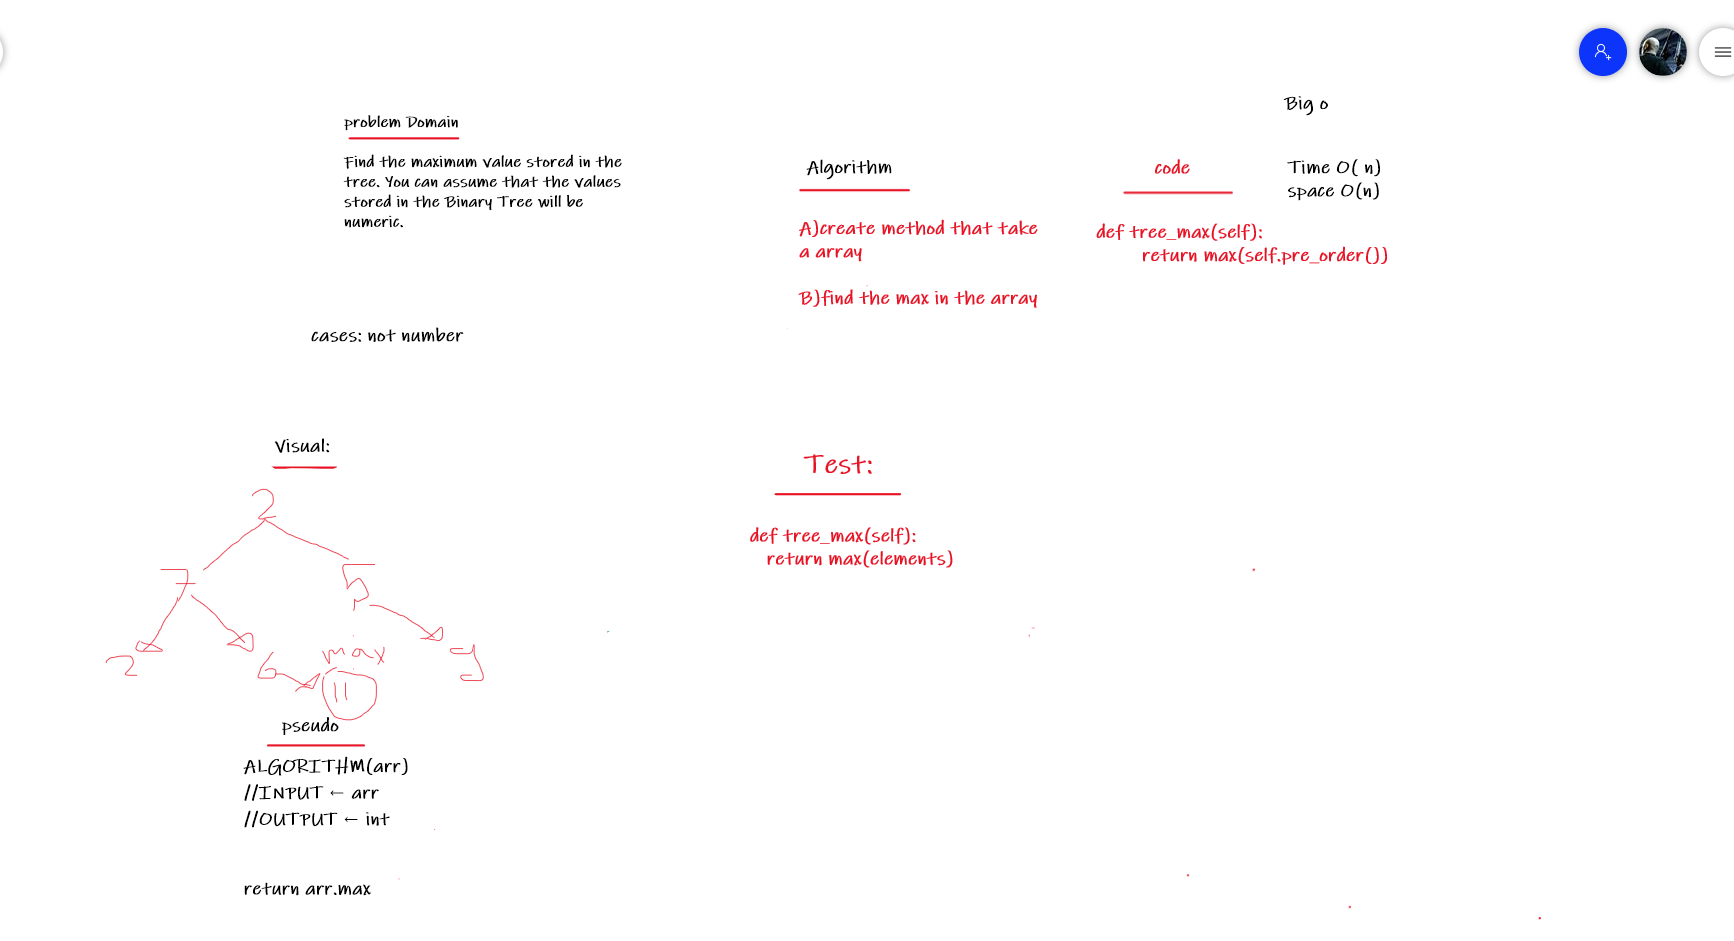
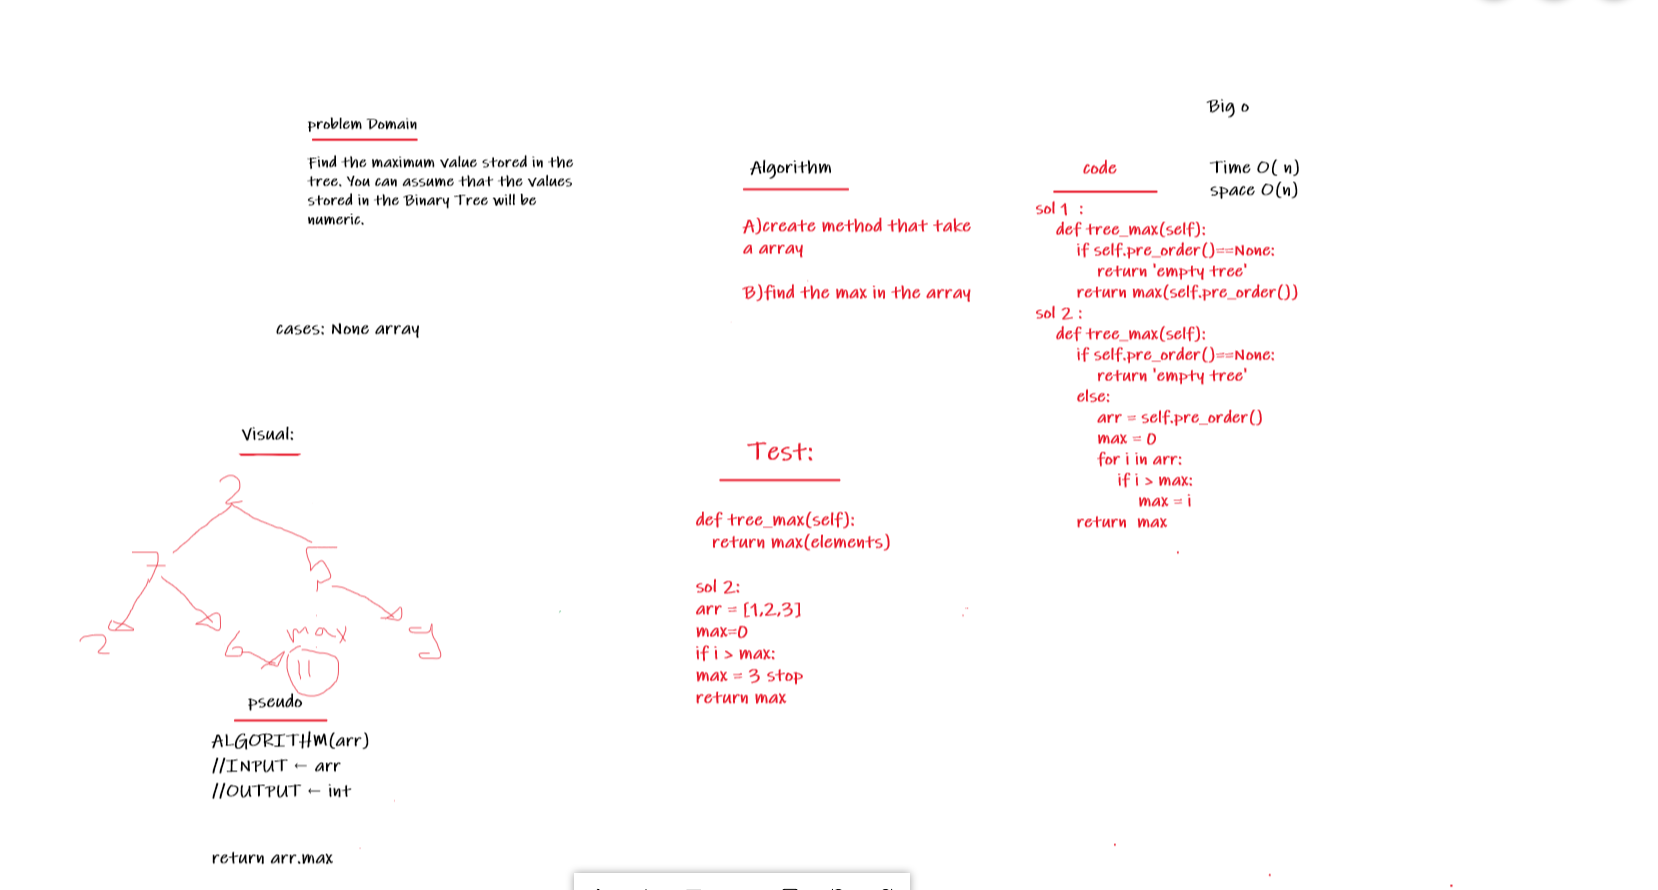
done the chalange

diff --git a/Data-Structures/python/trees/trees/trees.py b/Data-Structures/python/trees/trees/trees.py
@@ -80,7 +80,20 @@ class Binary_Tree:
                 return False
 
     def tree_max(self):
+        if self.pre_order()==None:
+            return 'empty tree'
         return max(self.pre_order())
+
+    def tree_max(self):
+        if self.pre_order()==None:
+            return 'empty tree'
+        else:
+            arr = self.pre_order()
+            max = 0
+            for i in arr:
+                if i > max:
+                    max = i
+        return  max
 
         
 
@@ -96,12 +109,13 @@ def build_tree(elements):
     
 
 if __name__ == '__main__':
+    
     nums = [17,4,1,20,9,23,18,34,18,4]
     nums_tree = build_tree(nums)
     
     print(nums_tree.contains(4))
     print(nums_tree.contains(5))
-    
+    print(nums_tree.tree_max())   
     
     print(nums_tree.tree_max())
             
